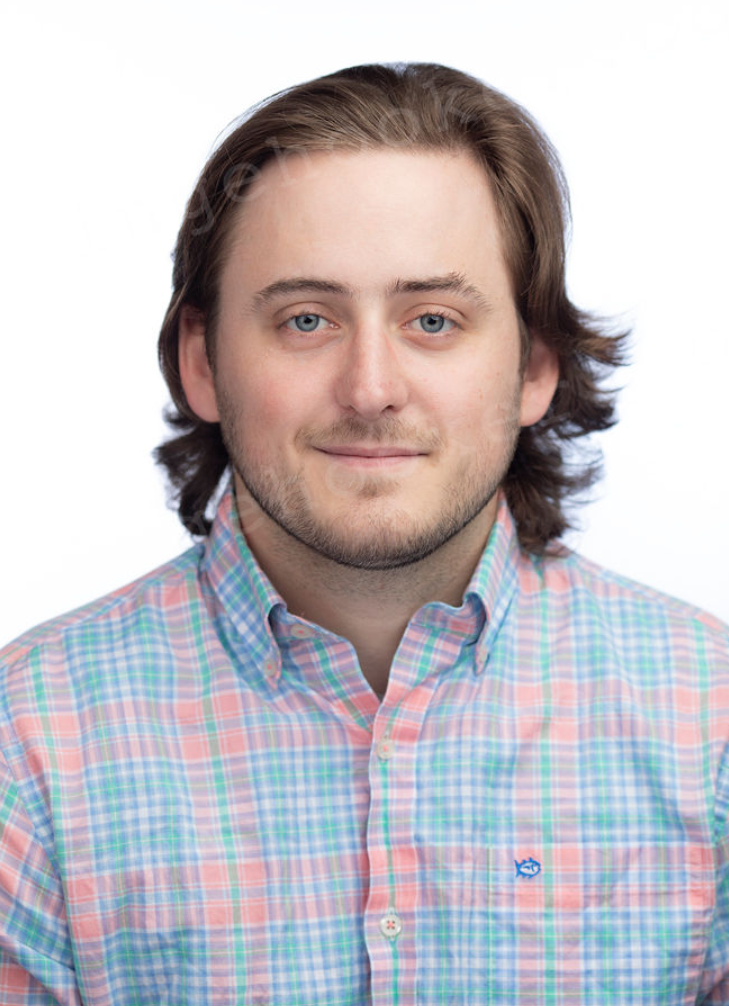
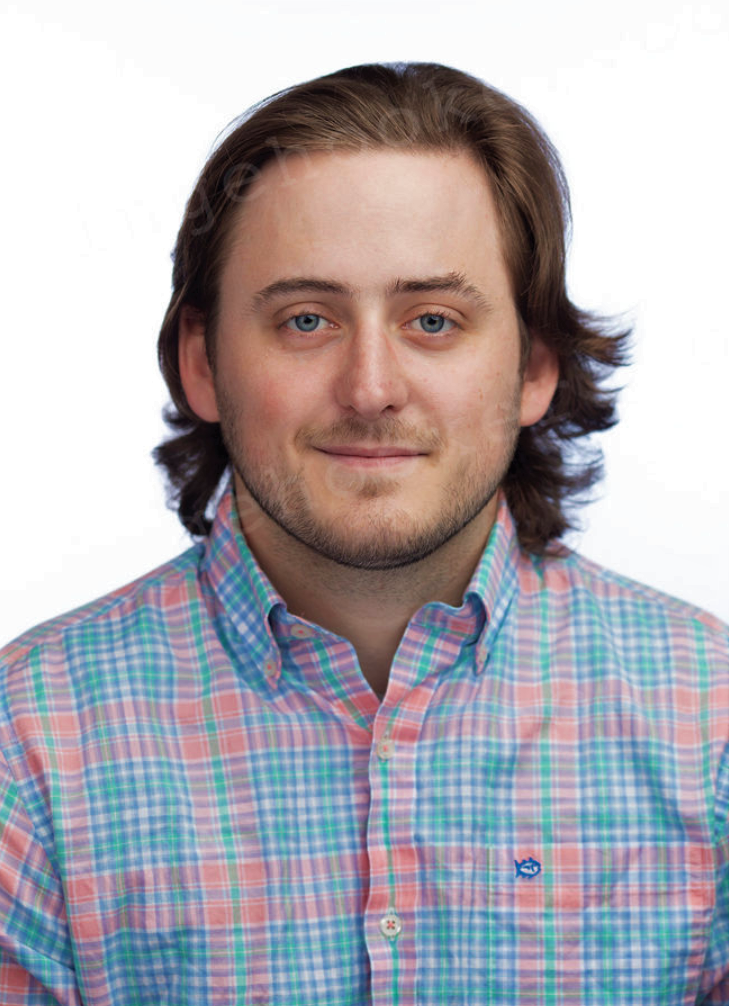
headshot image added

diff --git a/index.html b/index.html
@@ -48,7 +48,7 @@
             <a class="nav-link js-scroll-trigger" href="#about">About</a>
           </li>
           <li class="nav-item">
-            <a class="nav-link js-scroll-trigger" href="#team">Team</a>
+            <a class="nav-link js-scroll-trigger" href="#team">NSS Team</a>
           </li>
           <li class="nav-item">
             <a class="nav-link js-scroll-trigger" href="#contact">Contact</a>
@@ -62,7 +62,10 @@
   <header class="masthead">
     <div class="container">
       <div class="intro-text">
-        <div><img class="rounded-circle img-fluid" src="img/about/1.jpg" alt=""></div>
+        <div class="headshot">
+          <img class="rounded-circle img-fluid bottom" src="img/FunnyHeadshot.PNG" height="275em" width="200em" alt="FunnyHeadshot">
+          <img class="rounded-circle img-fluid top" src="img/Headshot.PNG" height="275em" width="200em" alt="Headshot">
+        </div>
         <div class="intro-lead-in">Welcome To My Page!</div>
         <div class="intro-heading text-uppercase">It's Nice To Meet You</div>
         <a class="btn btn-primary btn-xl text-uppercase js-scroll-trigger" href="#services">Tell Me More</a>
@@ -143,6 +146,10 @@
         <div class="col-md-2">
           <img src="./img/icons/NET.png" height="141px" width="141px" alt=".NET"/>
           <h4 class="service-heading">.NET</h4>
+        </div>
+        <div class="col-md-2">
+          <img src="./img/icons/browserify.png" height="141px" width="141px" alt="Browserify"/>
+          <h4 class="service-heading">Browserify</h4>
         </div>
       </div>
     </div>

diff --git a/css/agency.css b/css/agency.css
@@ -35,6 +35,29 @@ h6 {
   font-family: 'Montserrat', -apple-system, BlinkMacSystemFont, 'Segoe UI', Roboto, 'Helvetica Neue', Arial, sans-serif, 'Apple Color Emoji', 'Segoe UI Emoji', 'Segoe UI Symbol', 'Noto Color Emoji';
 }
 
+.headshot img {
+  position: absolute;
+  z-index: 1000;
+}
+
+.headshot img.bottom {
+  z-index: 0;
+}
+
+.headshot img.top {
+  position: relative;
+  left:0;
+  -webkit-transition: opacity 1s ease-in-out;
+  -moz-transition: opacity 1s ease-in-out;
+  -o-transition: opacity 1s ease-in-out;
+  transition: opacity 1s ease-in-out;
+  z-index: 100;
+}
+
+img.top:hover {
+  opacity:0;
+}
+
 section {
   padding: 100px 0;
 }
@@ -213,8 +236,8 @@ header.masthead .intro-text .intro-heading {
 
 @media (min-width: 768px) {
   header.masthead .intro-text {
-    padding-top: 300px;
-    padding-bottom: 200px;
+    padding-top: 200px;
+    padding-bottom: 125px;
   }
   header.masthead .intro-text .intro-lead-in {
     font-size: 40px;

diff --git a/vendor/bootstrap/css/bootstrap.css b/vendor/bootstrap/css/bootstrap.css
@@ -480,7 +480,12 @@ mark,
 
 .img-fluid {
   max-width: 100%;
-  height: auto;
+  height: relative;
+}
+
+.img-fluid .bottom .top {
+  max-width: 100%;
+  height: 17em;
 }
 
 .img-thumbnail {
